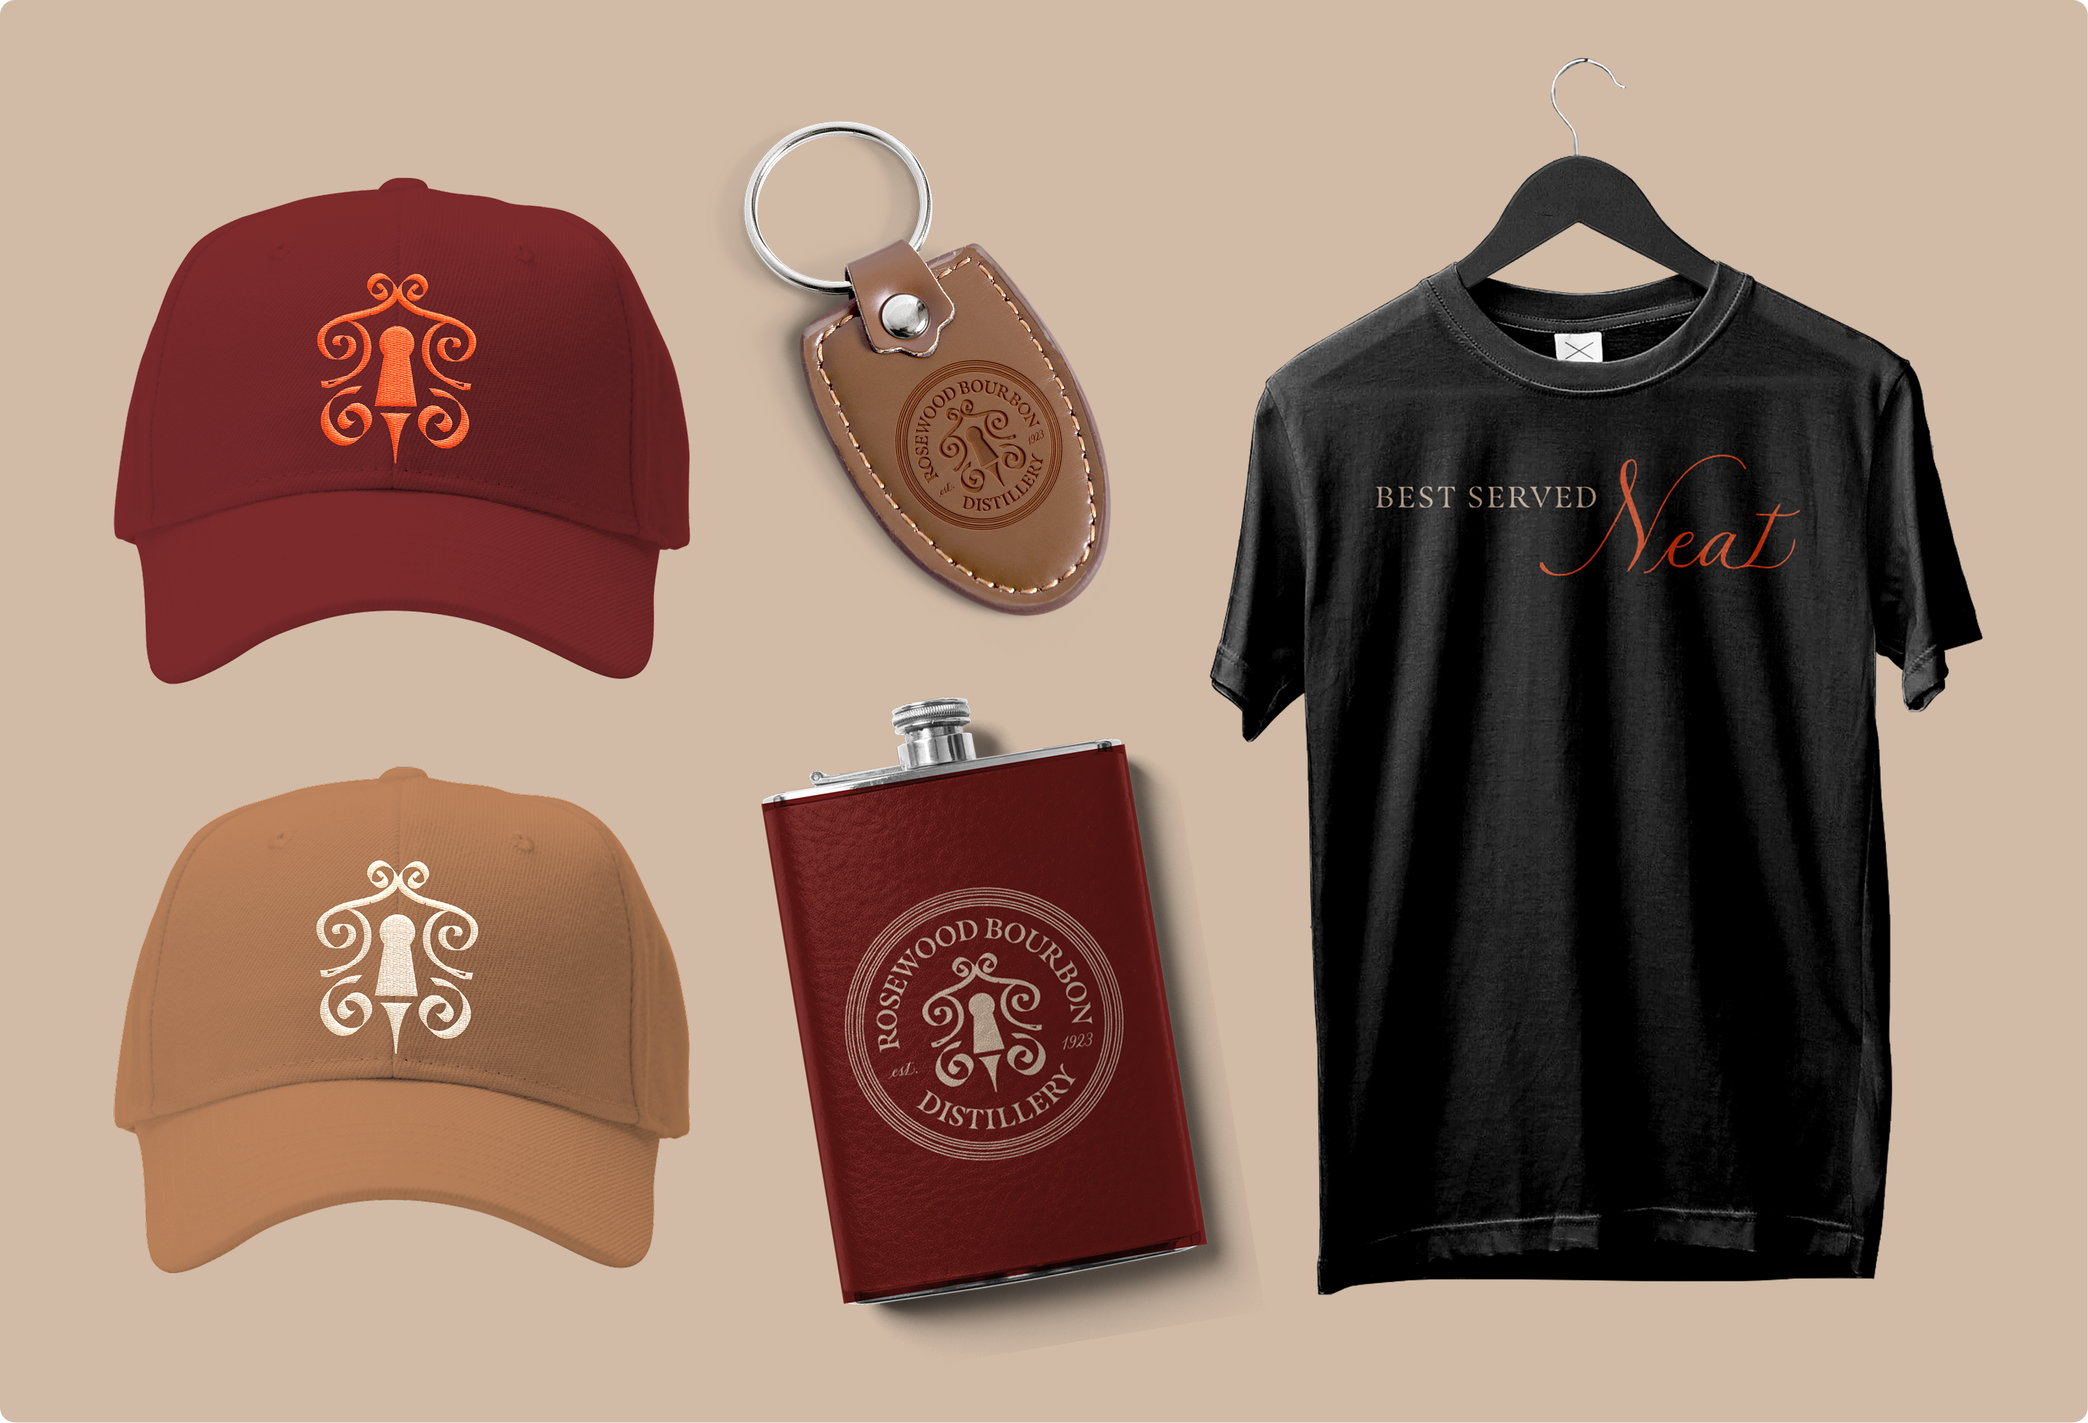
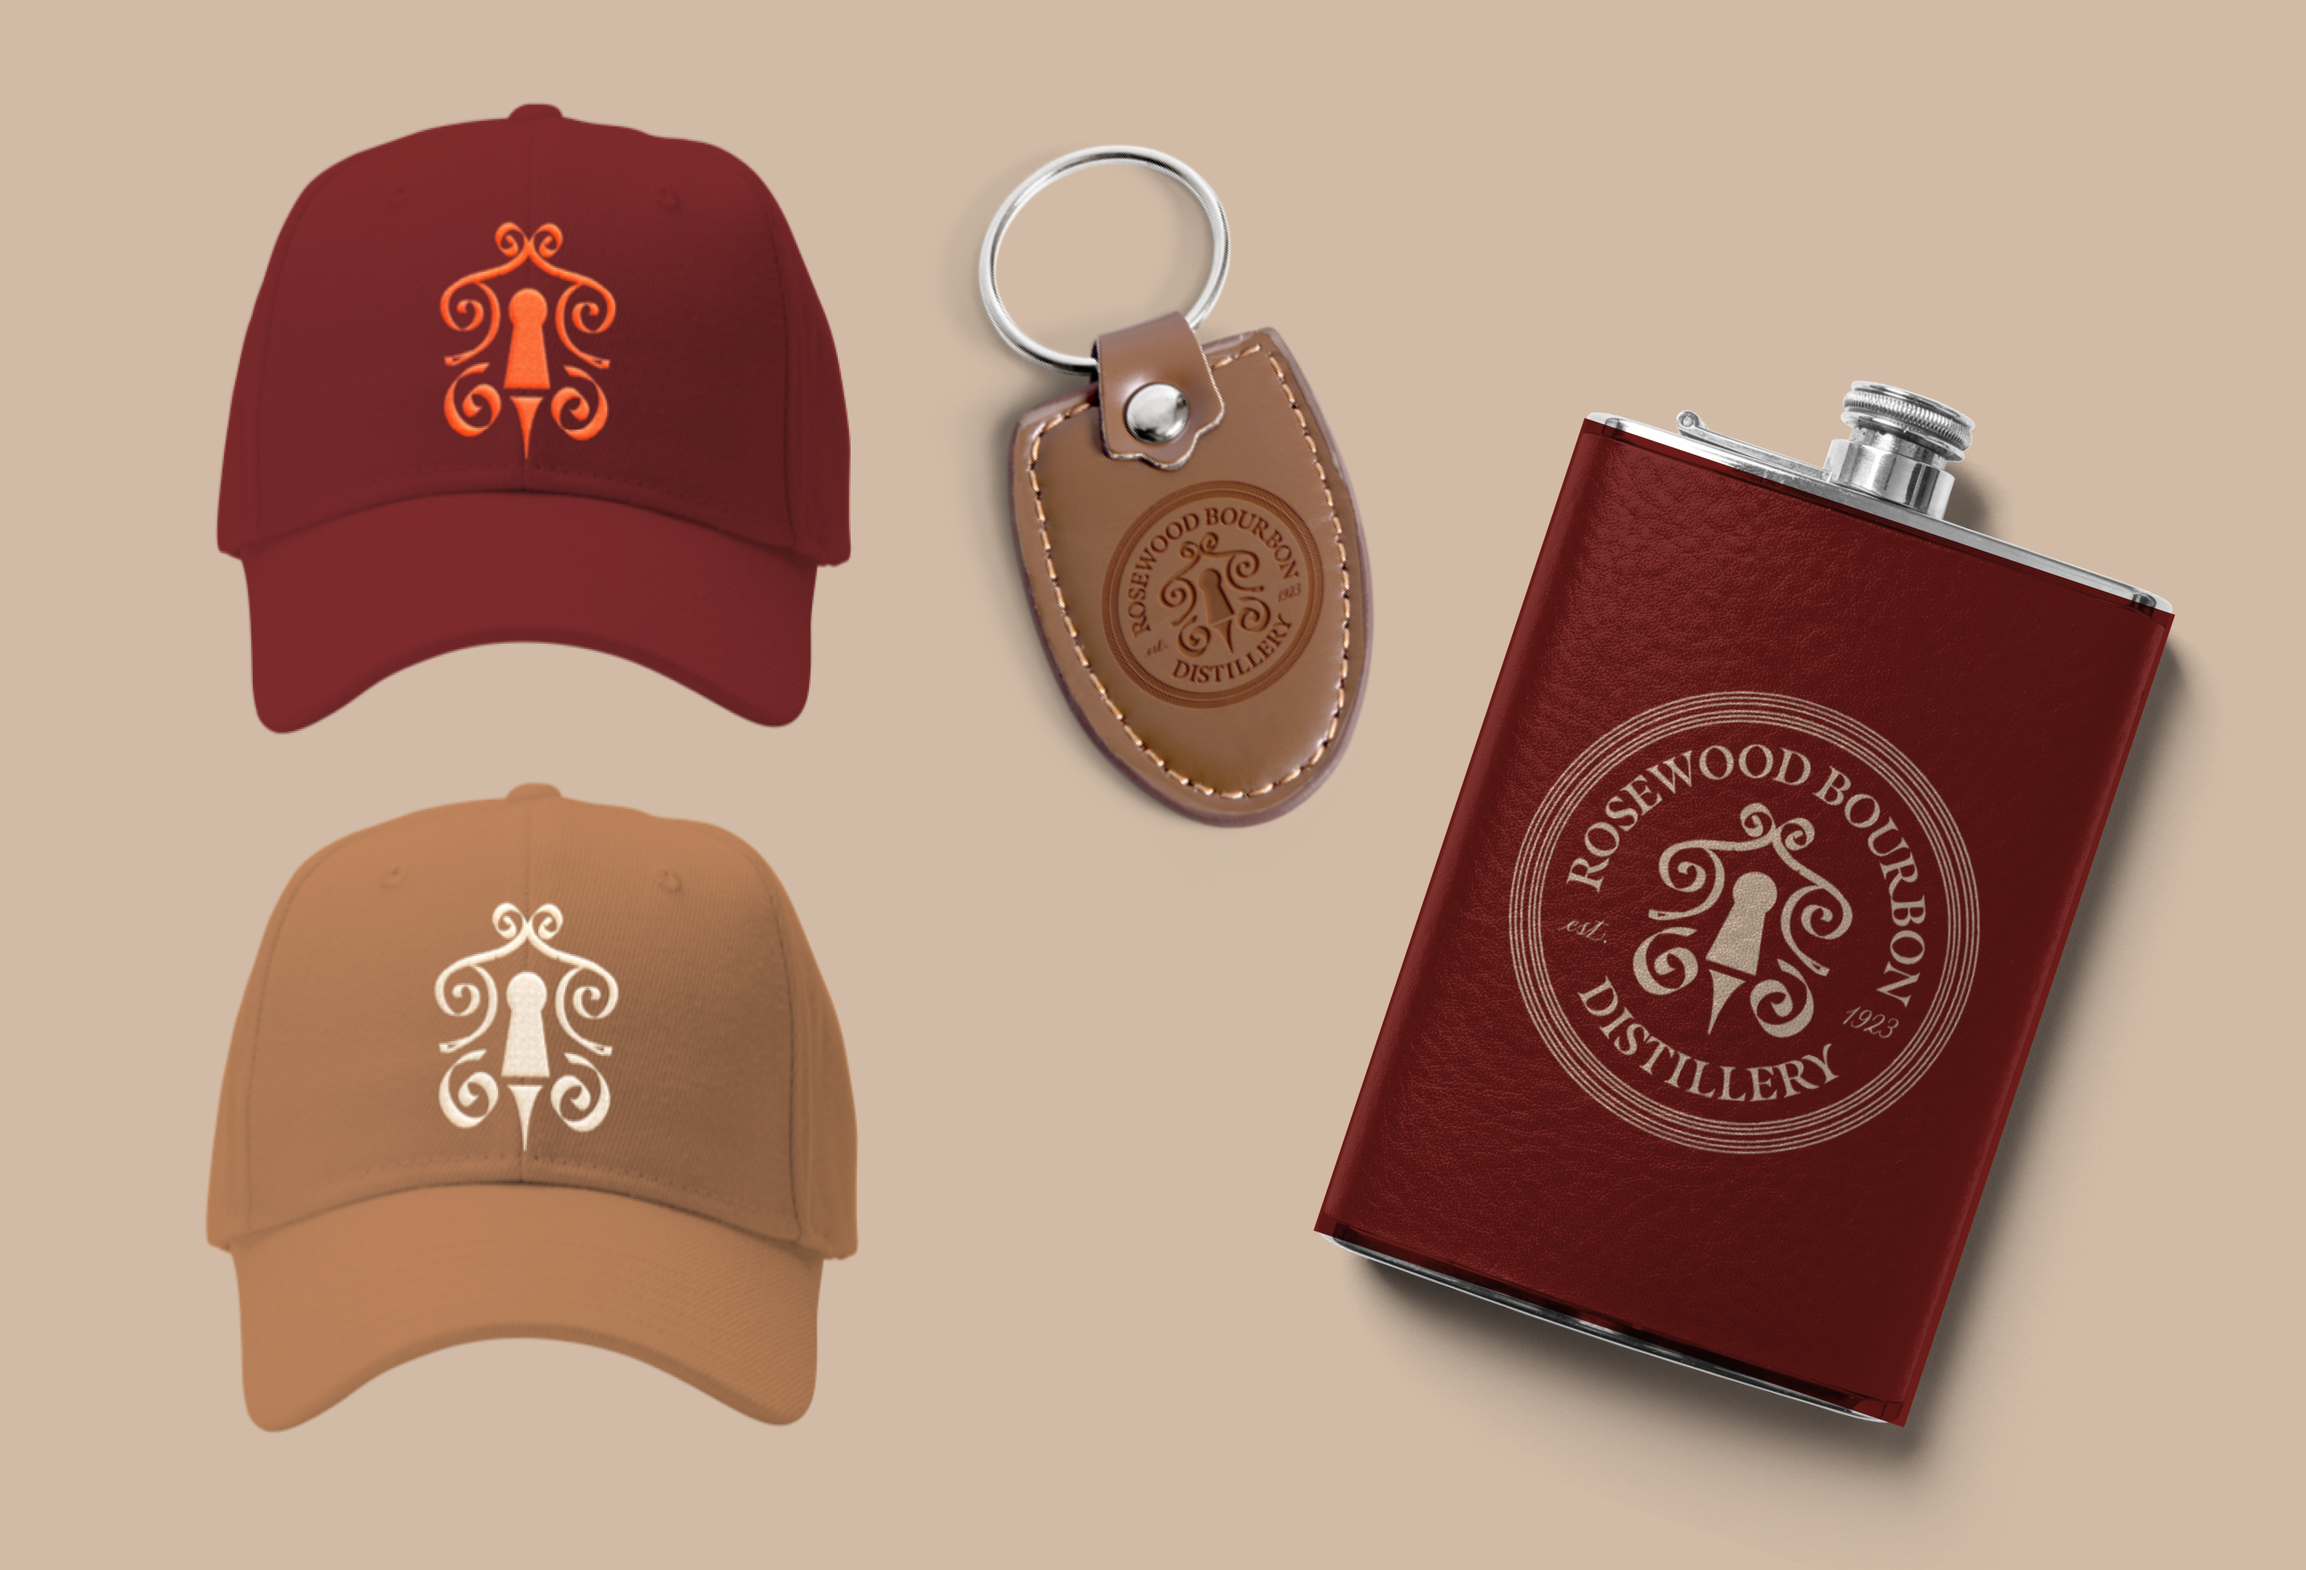
rosewood updates

diff --git a/src/content/work/05-Rosewood.md b/src/content/work/05-Rosewood.md
@@ -105,7 +105,7 @@ caseSections:
       src: /assets/images/rosewood/rosewood_stationary.png
       alt: Rosewood stationery and business card design
     stackBottom:
-      - src: /assets/images/rosewood/merch.png
+      - src: /assets/images/rosewood/t-shirt-rosewood.png
         alt: Rosewood merchandise mockups
       - src: /assets/images/rosewood/rosewood-laptop.png
         alt: Rosewood website preview on laptop
